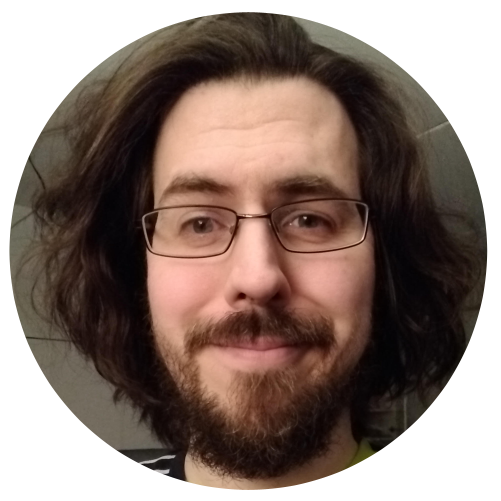
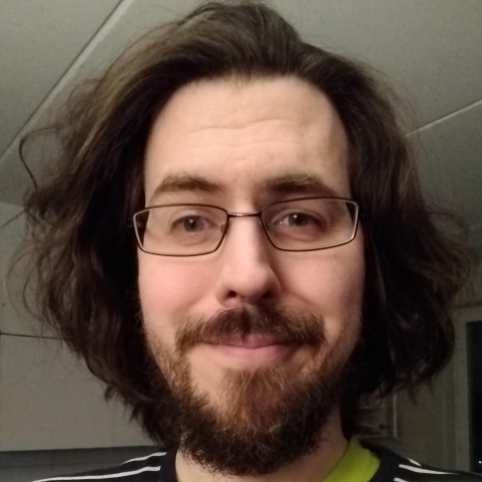
top layout adjustment

diff --git a/CSS/styles.css b/CSS/styles.css
@@ -86,6 +86,9 @@ input[type=checkbox] {
 	font-family: "Caveat Brush", "Lato", Helvetica, Arial, sans-serif;
 	font-size: 3rem;
 	font-weight: 500;
+	background: #E5E1D8;
+	padding: 5px 35px 15px 5px;
+	border-radius: 50px;
 }
 
 ul {
@@ -359,6 +362,20 @@ a:hover.contactquote {
 
 /*-------- contact table -----------------------*/
 table.contact {
+	margin-top: 15px;
+  margin-left: auto;
+  margin-right: auto;
+  /*background: #E5E1D8; /*#*/
+  /*color: #100F0E; /*#*/
+	background: #E5E1D8;
+	padding: 25px 45px 25px 35px;
+	border-radius: 500px;
+	border-style: solid;
+	border-color: #100F0E;
+  border-width: 2px;
+  box-shadow: 5px 5px #100F0E;
+}
+table.contactabout {
   margin-left: auto;
   margin-right: auto;
   /*background: #E5E1D8; /*#*/
@@ -943,6 +960,38 @@ table.about {
   overflow: hidden;
   margin: 25px 50px;
 }
+.topimage {
+  float: left;
+  width: auto;
+  max-width: 340px;
+  height: auto;
+  max-height: 380px;
+  overflow: hidden;
+  margin: 25px 50px;
+	padding: 0px;
+	border-radius: 550px;
+	border-style: solid;
+	border-color: #E5E1D8; /*#100F0E;*/
+  border-width: 10px 5px 5px 10px;
+  box-shadow: 0px 0px 0px 0px #E5E1D8; /*#100F0E;*/
+}
+.topimage:hover {
+  float: left;
+  width: auto;
+  max-width: 340px;
+  height: auto;
+  max-height: 380px;
+  overflow: hidden;
+  margin: 25px 50px;
+	padding: 0px;
+	border-radius: 550px;
+	border-style: solid;
+	border-color: #E5E1D8; /*#100F0E;*/
+  border-width: 2px;
+  box-shadow: 5px 5px #100F0E; /*#307EAC; /*#EDCC81; /*#100F0E;*/
+  filter: brightness(100%); 
+    transition: .1s;
+}
 
 form {
   display: none;
@@ -1200,6 +1249,9 @@ iframe {
 	font-size: 280%;
 	font-weight: 300;
 	font-family: "Caveat Brush", "Lato", Helvetica, Arial, sans-serif;
+	text-align: center;
+	margin-right: auto;
+	margin-left: auto;
 }
 
 .skills {
@@ -1399,13 +1451,11 @@ iframe {
   padding: 20px 0px;
 }
 #top-img {
-  float: left;
-  width: auto;
-  max-width: 220px;
-  height: auto;
-  max-height: 220px;
+  display: block;
+  margin-left: 25%;
+  margin-right: 25%;
+  width: 50%;
   overflow: hidden;
-  margin: 15px 10px;
 }
   .checkbtn {
   	/*position: absolute;
@@ -1558,8 +1608,9 @@ table.about {
 	border-bottom: 1px solid #100F0E; /*#FF8C00;*/
 }
 table.contact {
-  margin-left: 10px;
-  margin-right: auto;
+	margin-top: 50px;
+	margin-left: auto;
+	margin-right: auto;
   /*background: #E5E1D8; /*#*/
   /*color: #100F0E; /*#*/
 }
@@ -1572,6 +1623,10 @@ table.contact {
   width: 100%;
   object-fit: cover;
   object-position: center;
+}
+.toptext {
+	max-width: 80%;
+	margin: auto;
 }
 }
 

diff --git a/index.html b/index.html
@@ -30,7 +30,7 @@
     }
 </script>
 </head>
-  <!-----------------------------------------------------------------------------------
+  <!-------------------------------------------------------------------------------------
   
 <nav>
   <div class="menu">
@@ -51,12 +51,12 @@
 <div class="center"><br>
   <div class="sections-container-top">
 
-    <a href="index.html#about"><img id="top-img" src="Images/portrait_top.png" alt="A photo of me"></a>
+    <a href="index.html#about"><img id="top-img" src="Images/portrait_top.png" class="topimage" alt="A photo of me"></a>
     <div class="about-me-para"><br><br><br><div class="greeting">Hi, I'm Josef. </div><br>
 	
-	I studied <b>Game and UX Design</b> at Futuregames.<br>
+	<div class="toptext">I studied <b>Game and UX Design</b> at Futuregames.<br>
 	&ensp; Currently based in <b>Malmö</b> and particularly interested in <b>UI</b>.
-	<br><br>
+	</div>
 	<div class="clear-paragraph">
 	
 	<table class="contact">
@@ -556,7 +556,7 @@ The final version is a creature I imagine as somewhere between a badger and a ho
 </div></div></div>  <div class="section" id="about"></div><br><br>
   <div class="center">
   <div class="sections-container-about"><br>
-<table class="contact">
+<table class="contact-about">
     <img id="bio-img" src="Images/portrait_Josef.png" alt="A photo of me">
 
 
